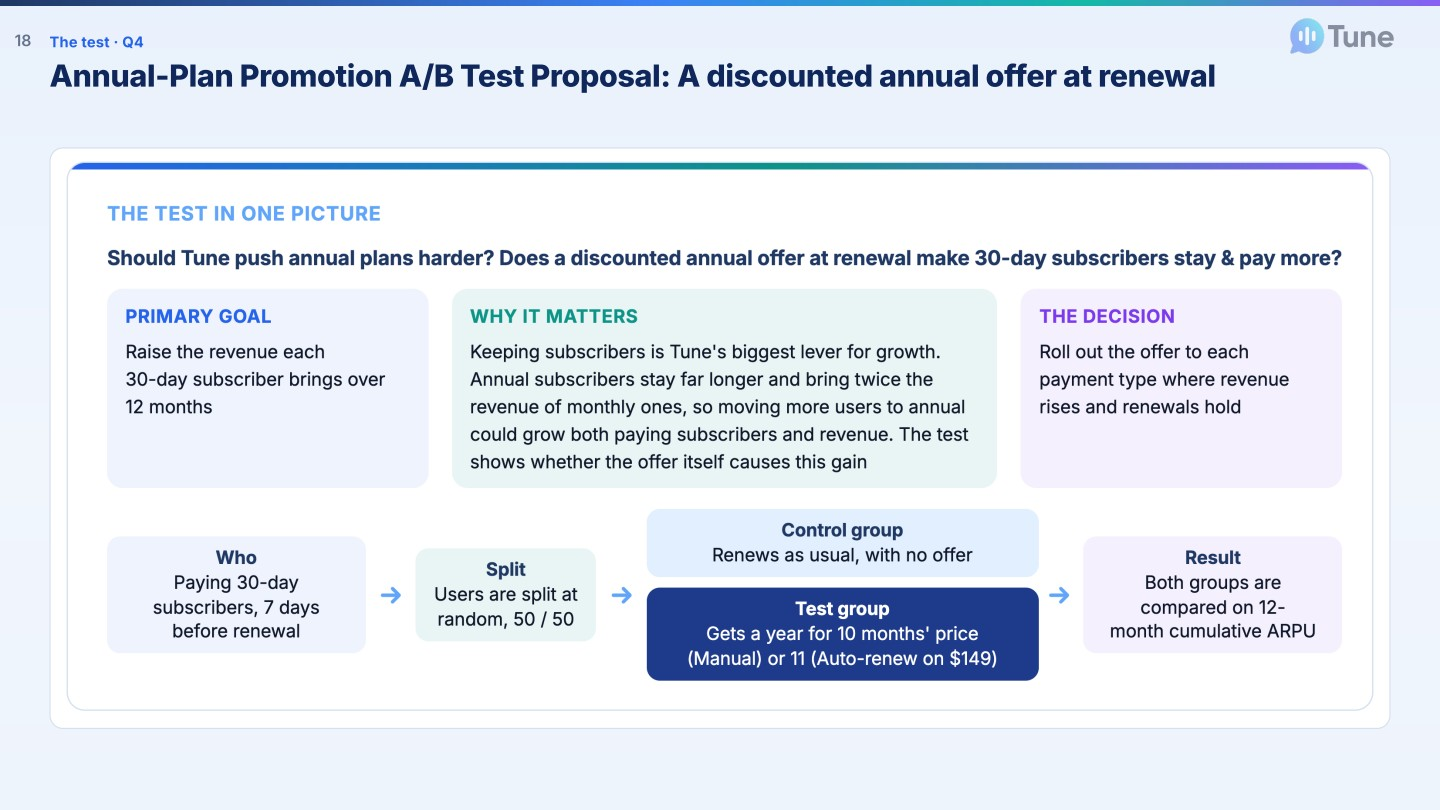
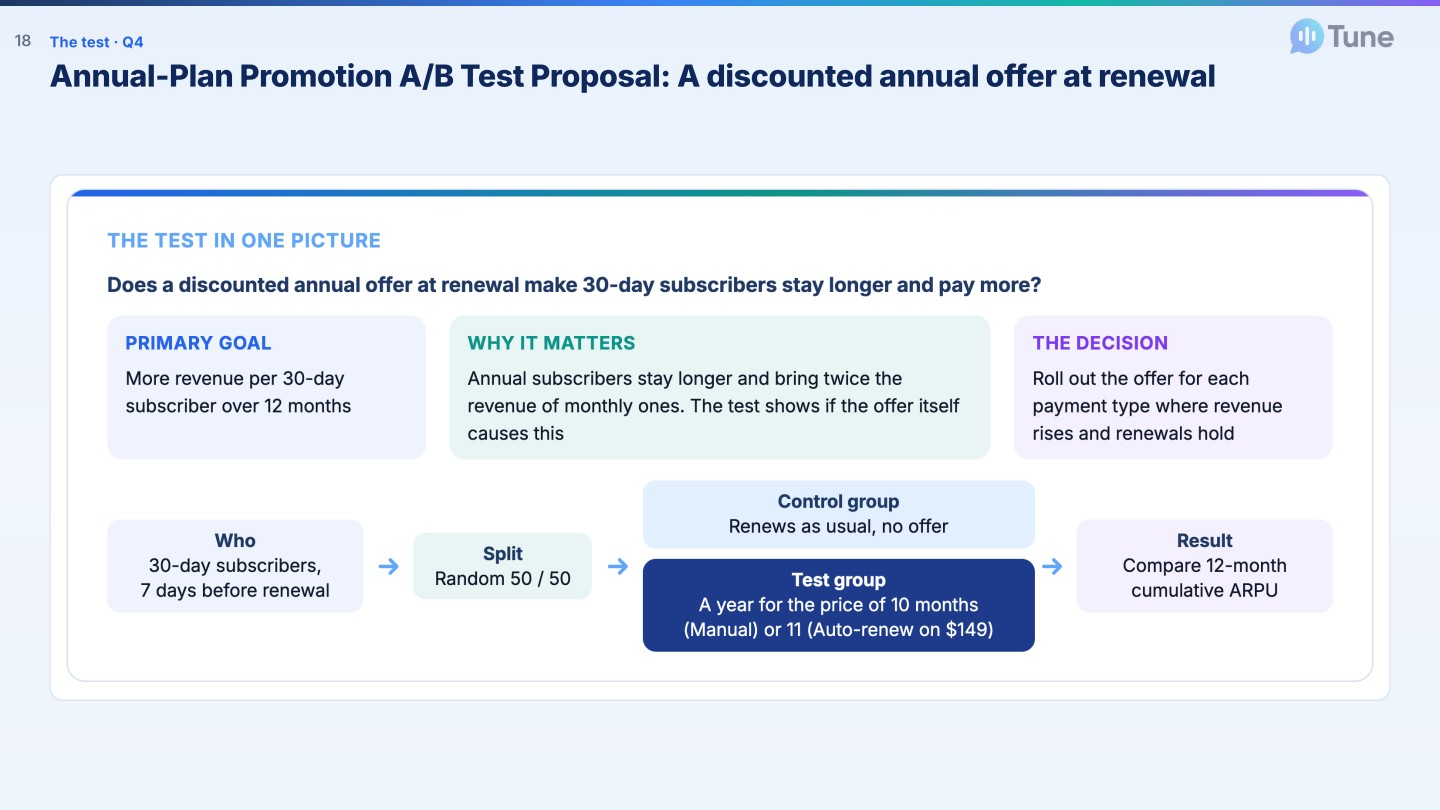
Deck slide 18: the test in one picture in shorter, clearer words

Changed region(s): [[0.0312, 0.1852, 0.9688, 0.8642], [0.7188, 0.3704, 0.9062, 0.5556], [0.75, 0.6481, 0.9062, 0.8025]]

diff --git a/index.html b/index.html
@@ -3732,7 +3732,7 @@ const ISSUES = { raw_users: "U1-U11: age 0 or out of range, gender missing, regi
   raw_churn_labels: "L4-L7: labels don't match a naive 'due in March' population" };
 
 // ---------------- tabs ----------------
-const DECKV = "1118s16c";  // change on every deck update so browsers load the new slide images, not a cached copy
+const DECKV = "1118s18t";  // change on every deck update so browsers load the new slide images, not a cached copy
 const GROUPS = {
   intro: [["overview", "Overview"]],
   p1: [["dq", "1a · Data quality"], ["lineage", "1b.1 · Clean layer & data model"], ["explorer", "1b.2 · Explorer & SQL"], ["churn", "1c · Churn check"]],
